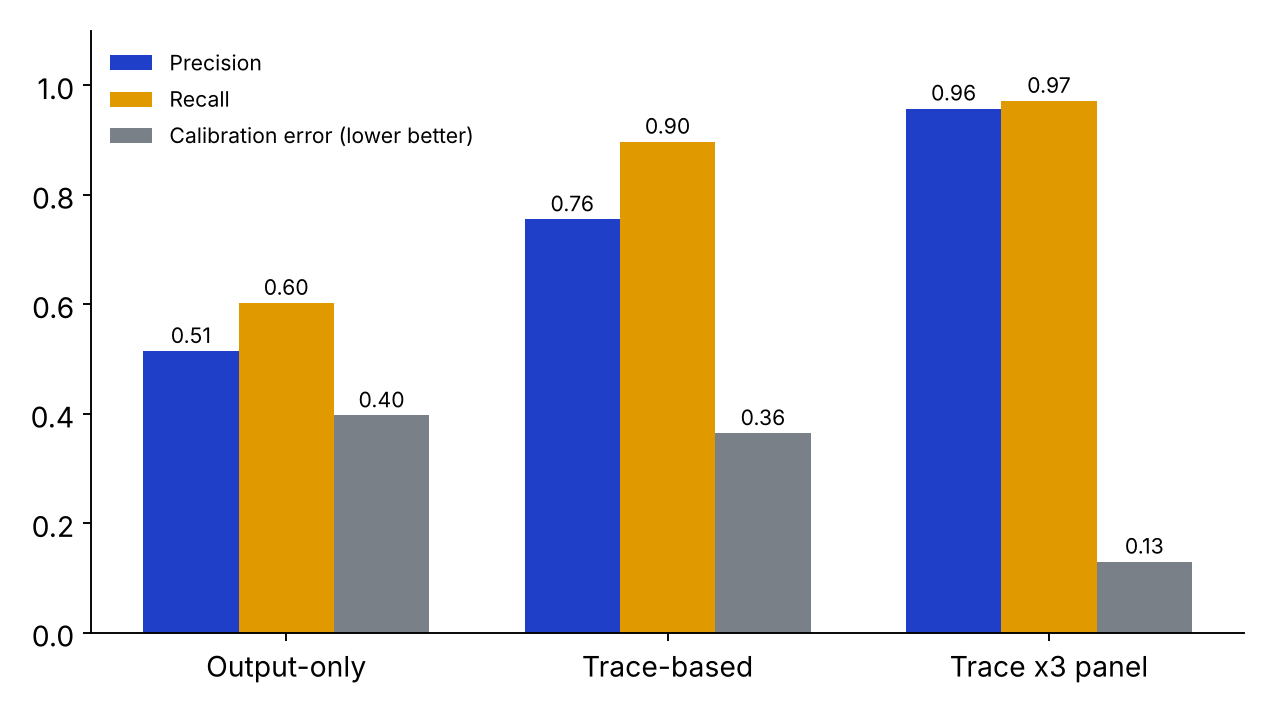
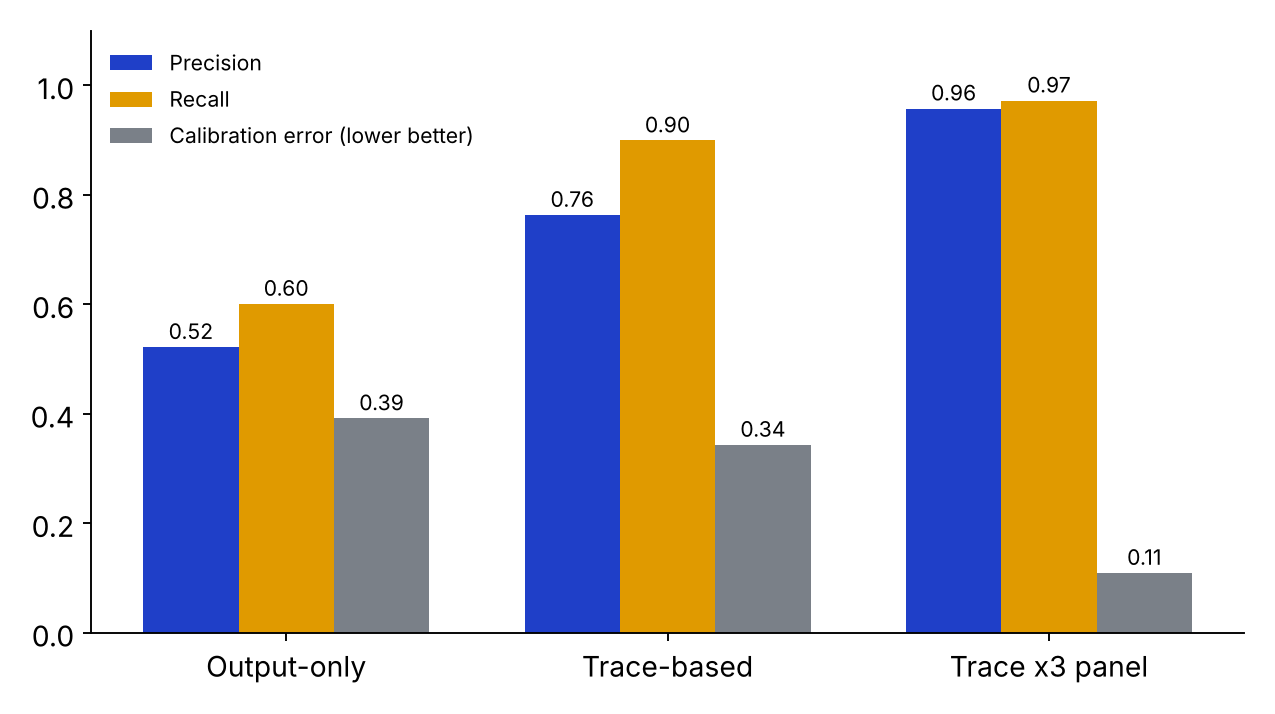
Make experiments reproducible (crc32 label noise, sorted category order); regenerate results and README

diff --git a/traceguard/agent.py b/traceguard/agent.py
@@ -3,7 +3,7 @@
 Outcomes use common random numbers (task.u) so two configs are compared on
 identical luck: differences come only from the config."""
 from dataclasses import dataclass, replace, asdict
-import random
+import random, zlib
 
 CATS = ["math", "lookup", "multi", "unsafe"]
 CAUSES = ["math", "retrieval", "workflow", "safety"]
@@ -78,7 +78,7 @@ def evaluate(tasks, cfg, label_noise=0.0):
     s, per, tok = 0, {c: [0, 0] for c in CATS}, 0
     for t in tasks:
         ok, _, tk, _ = run(t, cfg)
-        if label_noise and random.Random(hash((t.id, tuple(sorted(cfg.key().items())), len(tasks)))).random() < label_noise: ok = not ok
+        if label_noise and random.Random(zlib.crc32(repr((t.id, tuple(sorted(cfg.key().items())), len(tasks))).encode())).random() < label_noise: ok = not ok
         s += ok; tok += tk; per[t.type][0] += ok; per[t.type][1] += 1
     n = len(tasks)
     return s / n, {c: (a / b if b else 0) for c, (a, b) in per.items()}, tok / n

diff --git a/traceguard/reviewers.py b/traceguard/reviewers.py
@@ -51,7 +51,7 @@ def panel_review(reviewers, task, trace, ok, causes, tokens, min_agree=2):
     for rv in reviewers:
         f, fl = rv.review(task, trace, ok, causes, tokens); allf += f; flags += fl
     kept = []
-    for cat in set(x.category for x in allf):
+    for cat in sorted(set(x.category for x in allf)):
         grp = [x for x in allf if x.category == cat]
         if len(grp) >= min_agree:
             kept.append(Finding(task.id, cat, sum(x.confidence for x in grp) / len(grp),

diff --git a/README.md b/README.md
@@ -26,7 +26,7 @@ Rollback <- Monitor <- Staged rollout <- Validation gate <- Improvement engine
 
 ```
 pip install matplotlib numpy pillow pytest
-python -m traceguard.experiments 40   # about 30 s, writes results/results.json
+python -m traceguard.experiments 40   # about 45 s, reproducible across runs, writes results/results.json
 python -m traceguard.plots            # figures and demo.gif
 python -m pytest -q tests
 ```
@@ -38,9 +38,9 @@ python -m pytest -q tests
 | Baseline (no loop) | 46.9 | n/a | n/a | n/a | n/a |
 | Output-only, ungated | 90.1 | 100 | 14 | 0.53 / 0.60 | 0.38 |
 | Trace-based, ungated | 87.2 | 100 | 10 | 0.79 / 0.90 | 0.29 |
-| Output-only, gated | 91.3 | 5 | 1 | 0.51 / 0.60 | 0.40 |
-| Trace-based, gated | 91.3 | 4 | 3 | 0.76 / 0.90 | 0.36 |
-| Trace x3 panel, gated | 91.2 | 5 | 3 | 0.96 / 0.97 | 0.13 |
+| Output-only, gated | 91.1 | 0 | 0 | 0.52 / 0.60 | 0.39 |
+| Trace-based, gated | 91.0 | 2 | 1 | 0.76 / 0.90 | 0.34 |
+| Trace x3 panel, gated | 91.0 | 2 | 1 | 0.96 / 0.97 | 0.11 |
 
 ![success](results/fig_success.png)
 ![safety](results/fig_safety.png)
@@ -49,8 +49,8 @@ python -m pytest -q tests
 Findings:
 - The gate's main benefit is stability and safety, not peak score. Output-only review without the gate also reaches about 90% success but applies every harmful change.
 - Trace review has much higher recall than output-only review. Without a gate it did worse, because false "wasteful" flags led to harmful changes.
-- A 3-reviewer panel improves calibration but starts slower (cycle-1 success 76% vs 84%).
-- Gated improvements cost about 5.7x the tokens of ungated ones. The gate also blocks about 10% of useful proposals on noisy test labels.
+- A 3-reviewer panel improves calibration but starts slower (cycle-1 success 77% vs 85%).
+- Gated improvements cost about 6.1x the tokens of ungated ones. The gate also blocks about 22% of useful proposals on noisy test labels.
 
 ## Check against published judge benchmarks
 
